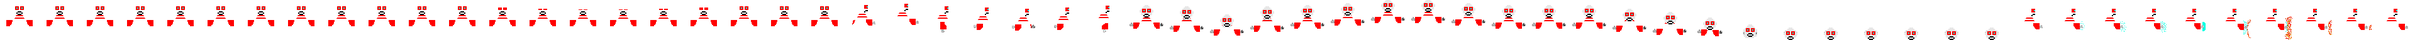
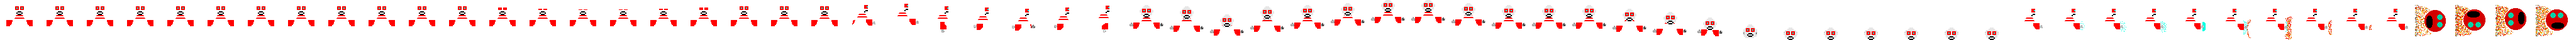
fa

diff --git a/js/GameStates/level1.js b/js/GameStates/level1.js
@@ -87,13 +87,13 @@ var currentBullet = 0;
 for(let i=0; i<100; i++)
 {
 	bullets[i] = new GameObject({width:64, height:64})
-	//bullets[i].img.src="images/mrt.jpg"
+	bullets[i].img.src="images/jtpFull.jpg"
 	bullets[i].makeSprite(playerData)
 	bullets[i].y=-10000
-	bullets[i].changeState(`walk`)
+	bullets[i].changeState(`bullets`)
 }
 
-//console.log(bullets)
+console.log(bullets)
 
 /*------------------^^BULLET STUFF^^----------------------*/
 

diff --git a/js/Data/player.js b/js/Data/player.js
@@ -148,7 +148,22 @@ var playerData ={
 				{width:64, height:64, startX:3776, startY:0}
 				
 			]
+		},
+		bullets:
+		{
+			fps: 8,
+			cycle: true,
+			frames:
+			[
+				{width:64, height:64, startx:3840, starty:0},
+				{width:64, height:64, startx:3904, starty:0},
+				{width:64, height:64, startx:3968, starty:0},
+				{width:64, height:64, startx:4032, starty:0}
+			]
 		}
 	}
 		
 }
+
+	
+
